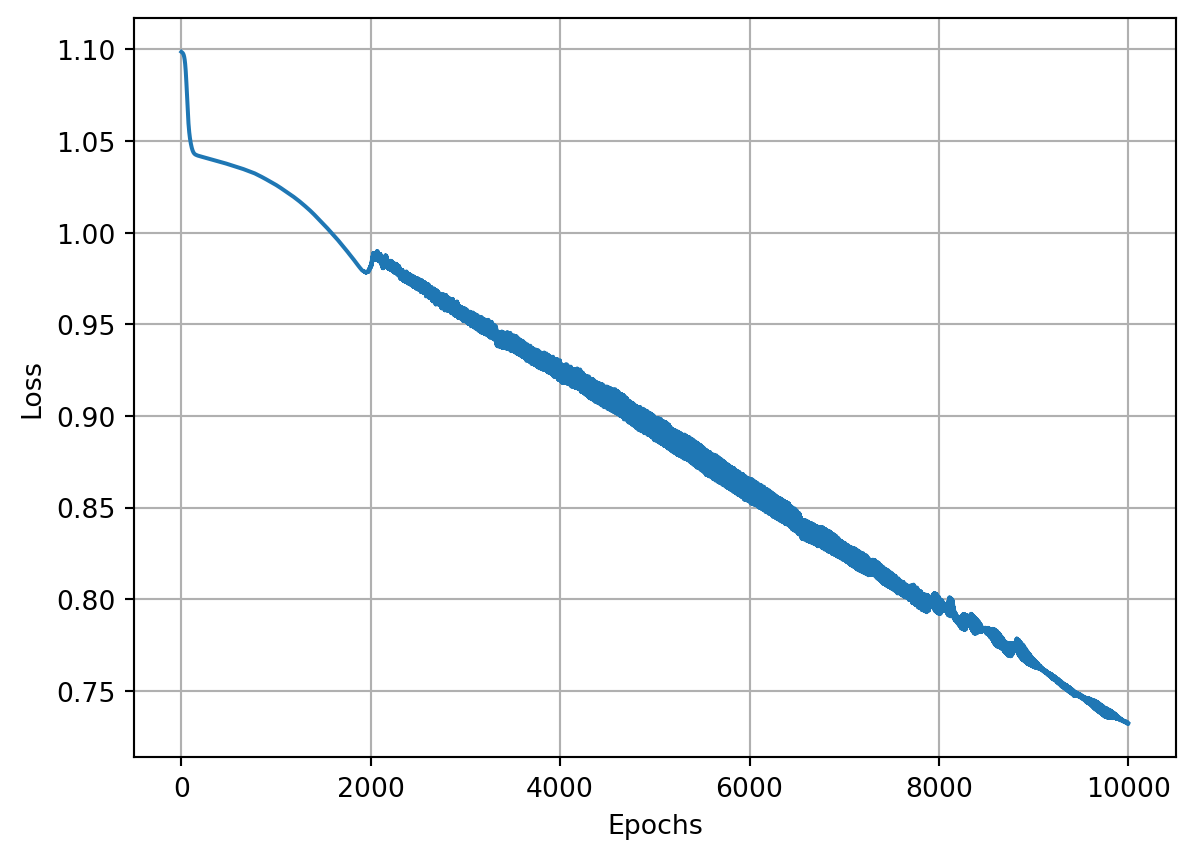
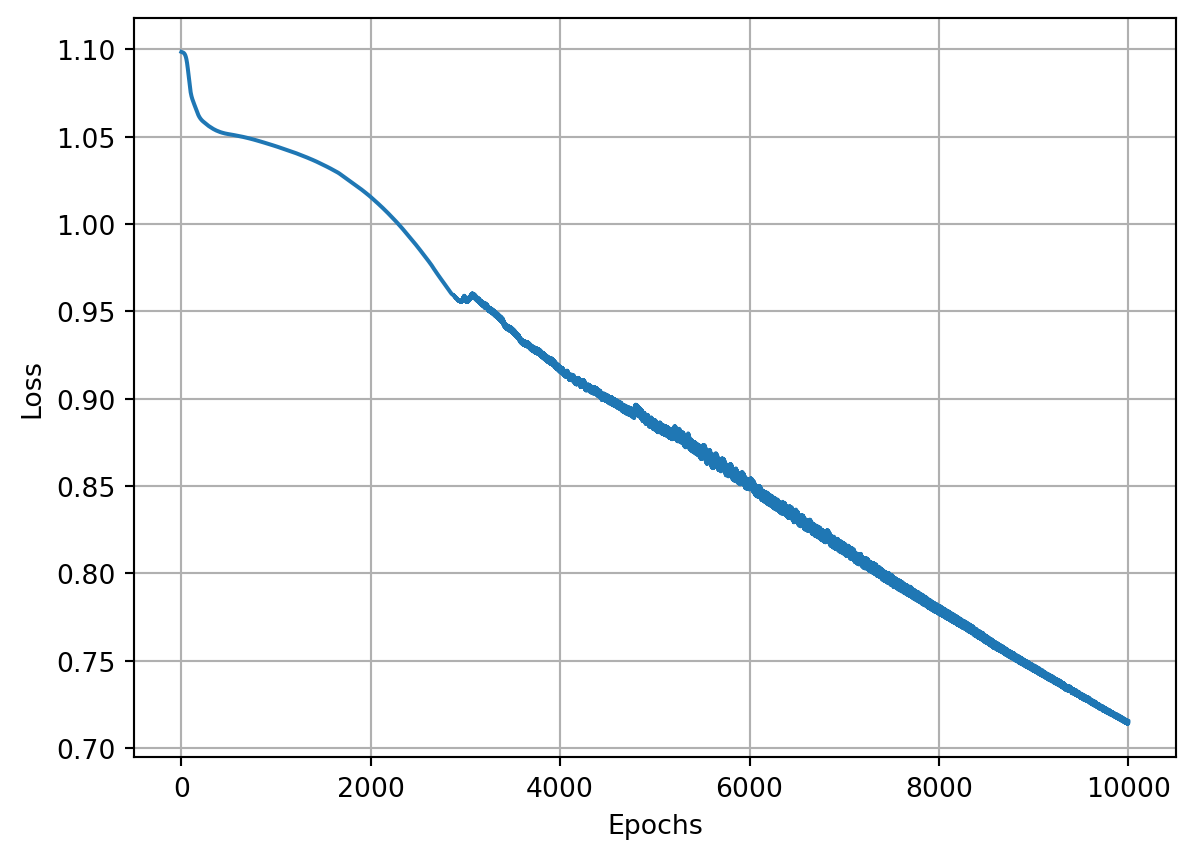
optimization

diff --git a/docs/posts/optimization_algorithms/index.html b/docs/posts/optimization_algorithms/index.html
@@ -194,7 +194,10 @@ pre > code.sourceCode > span > a:first-child::before { text-decoration: underlin
   <li><a href="#stochastic-gradient-descentsgd" id="toc-stochastic-gradient-descentsgd" class="nav-link" data-scroll-target="#stochastic-gradient-descentsgd">Stochastic Gradient Descent(SGD)</a></li>
   <li><a href="#sgdoptimizer-class" id="toc-sgdoptimizer-class" class="nav-link" data-scroll-target="#sgdoptimizer-class"><code>SGDOptimizer</code> class</a></li>
   <li><a href="#learning-rate-decay" id="toc-learning-rate-decay" class="nav-link" data-scroll-target="#learning-rate-decay">Learning Rate Decay</a></li>
-  <li><a href="#stochastic-gradient-descent-with-momentum" id="toc-stochastic-gradient-descent-with-momentum" class="nav-link" data-scroll-target="#stochastic-gradient-descent-with-momentum">Stochastic Gradient Descent with Momentum</a></li>
+  <li><a href="#stochastic-gradient-descent-with-momentum" id="toc-stochastic-gradient-descent-with-momentum" class="nav-link" data-scroll-target="#stochastic-gradient-descent-with-momentum">Stochastic Gradient Descent with Momentum</a>
+  <ul class="collapse">
+  <li><a href="#the-dynamics-of-momentum" id="toc-the-dynamics-of-momentum" class="nav-link" data-scroll-target="#the-dynamics-of-momentum">The dynamics of Momentum</a></li>
+  </ul></li>
   </ul>
 </nav>
     </div>
@@ -523,6 +526,22 @@ w^{(k)} - w^{*} = Qx^{(k)} &amp;= \sum_i q_i x_i^{(k)}\\
 <p><span class="math display">\[\begin{align*}
 \text{rate}(\alpha) = \max \{|1-\alpha \lambda_1|,|1-\alpha \lambda_n|\}
 \end{align*}\]</span></p>
+<p>The optimal learning rate is that which balances the convergence rate. Setting the convergence rate to be equal for the smallest and largest eigenvalues, we can solve for the optimal step size.</p>
+<p><span class="math display">\[\begin{align*}
+|1- \alpha \lambda_1| = |1- \alpha \lambda_n|
+\end{align*}\]</span></p>
+<p>Assuming <span class="math inline">\(\lambda_1 \neq \lambda_n\)</span>:</p>
+<p><span class="math display">\[\begin{align*}
+1 - \alpha \lambda_1 &amp;= -1 + \alpha \lambda_n\\
+\alpha (\lambda_1 + \lambda_n) &amp;= 2\\
+\alpha^* &amp;= \frac{2}{\lambda_1 + \lambda_n}
+\end{align*}\]</span></p>
+<p>So, the optimal convergence rate equals:</p>
+<p><span class="math display">\[\begin{align*}
+\max \{|1-\alpha \lambda_1|,|1-\alpha \lambda_n|\} &amp;= 1 - \frac{2\lambda_1}{\lambda_1 + \lambda_n} \\
+&amp;= \frac{\lambda_n - \lambda_1}{\lambda_n + \lambda_1}\\
+&amp;= \frac{\kappa - 1}{\kappa + 1}
+\end{align*}\]</span></p>
 <p>The ratio <span class="math inline">\(\kappa = \lambda_n / \lambda_1\)</span> determines the convergence rate of the problem. Recall that the level curves of the error surface are ellipsoids. Hence, a poorly conditioned Hessian results in stretching one of the axes of the ellipses, and taken to its extreme, the contours are almost parallel. Since gradient vectors are orthogonal to the level curves, the optimizer keeps pin-balling between parallel lines and takes forever to reach the center.</p>
 </section>
 </section>
@@ -621,7 +640,7 @@ w_{k+1} := w_k - \alpha_k \nabla \mathcal{L}(w_{k}) = w_k - \alpha_k \nabla L_i(
 <span id="cb11-25"><a href="#cb11-25" aria-hidden="true" tabindex="-1"></a>optimizer.update_params(dense1)</span>
 <span id="cb11-26"><a href="#cb11-26" aria-hidden="true" tabindex="-1"></a>optimizer.update_params(dense2)</span></code><button title="Copy to Clipboard" class="code-copy-button"><i class="bi"></i></button></pre></div>
 <div class="cell-output cell-output-stdout">
-<pre><code>Loss = 1.0986167044810788</code></pre>
+<pre><code>Loss = 1.0985869444388354</code></pre>
 </div>
 </div>
 <p>This is everything we need to train our model!</p>
@@ -679,16 +698,16 @@ w_{k+1} := w_k - \alpha_k \nabla \mathcal{L}(w_{k}) = w_k - \alpha_k \nabla L_i(
 <span id="cb13-49"><a href="#cb13-49" aria-hidden="true" tabindex="-1"></a>    optimizer.update_params(dense2)</span></code><button title="Copy to Clipboard" class="code-copy-button"><i class="bi"></i></button></pre></div>
 <div class="cell-output cell-output-stdout">
 <pre><code>Epoch: 0, Loss:  1.099
-Epoch: 1000, Loss:  1.033
-Epoch: 2000, Loss:  0.968
-Epoch: 3000, Loss:  0.893
-Epoch: 4000, Loss:  0.801
-Epoch: 5000, Loss:  0.712
-Epoch: 6000, Loss:  0.679
-Epoch: 7000, Loss:  0.676
-Epoch: 8000, Loss:  0.628
-Epoch: 9000, Loss:  0.710
-Epoch: 10000, Loss:  0.694</code></pre>
+Epoch: 1000, Loss:  1.042
+Epoch: 2000, Loss:  0.935
+Epoch: 3000, Loss:  0.777
+Epoch: 4000, Loss:  0.639
+Epoch: 5000, Loss:  0.610
+Epoch: 6000, Loss:  0.600
+Epoch: 7000, Loss:  0.568
+Epoch: 8000, Loss:  0.562
+Epoch: 9000, Loss:  0.426
+Epoch: 10000, Loss:  0.396</code></pre>
 </div>
 </div>
 <p>Our neural network mostly stays stuck at around a loss of <span class="math inline">\(1.0\)</span> and later around <span class="math inline">\(0.85\)</span>-<span class="math inline">\(0.90\)</span> Given that this loss didn’t decrease much, we can assume that this learning rate being too high, also caused the model to get stuck in a <strong>local minimum</strong>, which we’ll learn more about soon. Iterating over more epochs, doesn’t seem helpful at this point, which tells us that we’re likely stuck with our optimization. Does this mean that this is the most we can get from our optimizer on this dataset?</p>
@@ -844,17 +863,17 @@ Epoch: 10000, Loss:  0.694</code></pre>
 <div class="cell" data-execution_count="16">
 <div class="sourceCode cell-code" id="cb20"><pre class="sourceCode python code-with-copy"><code class="sourceCode python"><span id="cb20-1"><a href="#cb20-1" aria-hidden="true" tabindex="-1"></a>acc_vals, loss_vals, lr_vals <span class="op">=</span> train(decay<span class="op">=</span><span class="fl">0.01</span>)</span></code><button title="Copy to Clipboard" class="code-copy-button"><i class="bi"></i></button></pre></div>
 <div class="cell-output cell-output-stdout">
-<pre><code>epoch: 0,                 acc : 0.293,                 loss:  1.099,                 lr : 1.0
-epoch: 1000,                 acc : 0.403,                 loss:  1.056,                 lr : 0.09099181073703366
-epoch: 2000,                 acc : 0.410,                 loss:  1.054,                 lr : 0.047641734159123386
-epoch: 3000,                 acc : 0.417,                 loss:  1.053,                 lr : 0.03226847370119393
-epoch: 4000,                 acc : 0.427,                 loss:  1.052,                 lr : 0.02439619419370578
-epoch: 5000,                 acc : 0.430,                 loss:  1.051,                 lr : 0.019611688566385566
-epoch: 6000,                 acc : 0.433,                 loss:  1.051,                 lr : 0.016396130513198885
-epoch: 7000,                 acc : 0.443,                 loss:  1.050,                 lr : 0.014086491055078181
-epoch: 8000,                 acc : 0.443,                 loss:  1.049,                 lr : 0.012347203358439314
-epoch: 9000,                 acc : 0.443,                 loss:  1.049,                 lr : 0.010990218705352238
-epoch: 10000,                 acc : 0.447,                 loss:  1.049,                 lr : 0.009901970492127933</code></pre>
+<pre><code>epoch: 0,                 acc : 0.380,                 loss:  1.099,                 lr : 1.0
+epoch: 1000,                 acc : 0.457,                 loss:  1.061,                 lr : 0.09099181073703366
+epoch: 2000,                 acc : 0.457,                 loss:  1.059,                 lr : 0.047641734159123386
+epoch: 3000,                 acc : 0.450,                 loss:  1.058,                 lr : 0.03226847370119393
+epoch: 4000,                 acc : 0.443,                 loss:  1.057,                 lr : 0.02439619419370578
+epoch: 5000,                 acc : 0.443,                 loss:  1.056,                 lr : 0.019611688566385566
+epoch: 6000,                 acc : 0.437,                 loss:  1.056,                 lr : 0.016396130513198885
+epoch: 7000,                 acc : 0.433,                 loss:  1.055,                 lr : 0.014086491055078181
+epoch: 8000,                 acc : 0.433,                 loss:  1.055,                 lr : 0.012347203358439314
+epoch: 9000,                 acc : 0.433,                 loss:  1.054,                 lr : 0.010990218705352238
+epoch: 10000,                 acc : 0.437,                 loss:  1.054,                 lr : 0.009901970492127933</code></pre>
 </div>
 </div>
 <div class="cell" data-execution_count="17">
@@ -901,17 +920,17 @@ epoch: 10000,                 acc : 0.447,                 loss:  1.049,        
 <div class="cell" data-execution_count="20">
 <div class="sourceCode cell-code" id="cb25"><pre class="sourceCode python code-with-copy"><code class="sourceCode python"><span id="cb25-1"><a href="#cb25-1" aria-hidden="true" tabindex="-1"></a>acc_vals, loss_vals, lr_vals <span class="op">=</span> train(decay<span class="op">=</span><span class="fl">1e-3</span>)</span></code><button title="Copy to Clipboard" class="code-copy-button"><i class="bi"></i></button></pre></div>
 <div class="cell-output cell-output-stdout">
-<pre><code>epoch: 0,                 acc : 0.367,                 loss:  1.099,                 lr : 1.0
-epoch: 1000,                 acc : 0.470,                 loss:  1.026,                 lr : 0.5002501250625312
-epoch: 2000,                 acc : 0.540,                 loss:  0.982,                 lr : 0.33344448149383127
-epoch: 3000,                 acc : 0.557,                 loss:  0.958,                 lr : 0.25006251562890724
-epoch: 4000,                 acc : 0.537,                 loss:  0.929,                 lr : 0.2000400080016003
-epoch: 5000,                 acc : 0.553,                 loss:  0.899,                 lr : 0.16669444907484582
-epoch: 6000,                 acc : 0.597,                 loss:  0.866,                 lr : 0.1428775539362766
-epoch: 7000,                 acc : 0.637,                 loss:  0.830,                 lr : 0.12501562695336915
-epoch: 8000,                 acc : 0.620,                 loss:  0.793,                 lr : 0.11112345816201799
-epoch: 9000,                 acc : 0.643,                 loss:  0.764,                 lr : 0.1000100010001
-epoch: 10000,                 acc : 0.687,                 loss:  0.732,                 lr : 0.09091735612328393</code></pre>
+<pre><code>epoch: 0,                 acc : 0.417,                 loss:  1.099,                 lr : 1.0
+epoch: 1000,                 acc : 0.427,                 loss:  1.045,                 lr : 0.5002501250625312
+epoch: 2000,                 acc : 0.477,                 loss:  1.015,                 lr : 0.33344448149383127
+epoch: 3000,                 acc : 0.547,                 loss:  0.957,                 lr : 0.25006251562890724
+epoch: 4000,                 acc : 0.550,                 loss:  0.918,                 lr : 0.2000400080016003
+epoch: 5000,                 acc : 0.537,                 loss:  0.888,                 lr : 0.16669444907484582
+epoch: 6000,                 acc : 0.560,                 loss:  0.853,                 lr : 0.1428775539362766
+epoch: 7000,                 acc : 0.577,                 loss:  0.817,                 lr : 0.12501562695336915
+epoch: 8000,                 acc : 0.627,                 loss:  0.781,                 lr : 0.11112345816201799
+epoch: 9000,                 acc : 0.643,                 loss:  0.747,                 lr : 0.1000100010001
+epoch: 10000,                 acc : 0.687,                 loss:  0.715,                 lr : 0.09091735612328393</code></pre>
 </div>
 </div>
 <div class="cell" data-execution_count="21">
@@ -925,7 +944,7 @@ epoch: 10000,                 acc : 0.687,                 loss:  0.732,        
 <span id="cb27-6"><a href="#cb27-6" aria-hidden="true" tabindex="-1"></a>plt.show()</span></code><button title="Copy to Clipboard" class="code-copy-button"><i class="bi"></i></button></pre></div>
 </details>
 <div class="cell-output cell-output-display">
-<p><img src="index_files/figure-html/cell-22-output-1.png" width="597" height="429"></p>
+<p><img src="index_files/figure-html/cell-22-output-1.png" width="597" height="432"></p>
 </div>
 </div>
 <div class="cell" data-execution_count="22">
@@ -957,14 +976,86 @@ epoch: 10000,                 acc : 0.687,                 loss:  0.732,        
 </section>
 <section id="stochastic-gradient-descent-with-momentum" class="level2">
 <h2 class="anchored" data-anchor-id="stochastic-gradient-descent-with-momentum">Stochastic Gradient Descent with Momentum</h2>
-<p>Momentum proposes a small tweak to gradient descent. We give gradient descent a short-term memory:</p>
+<p>Momentum proposes a small tweak to gradient descent. We give gradient descent a short-term memory. Let’s define the updated velocity <span class="math inline">\(z^{k+1}\)</span> to be weighted and controlled by the mass <span class="math inline">\(\beta\)</span>. When <span class="math inline">\(\beta\)</span> is high, we simply use the velocity from the last time, that is, we are entirely driven by momentum. When <span class="math inline">\(\beta=0\)</span>, the momentum is zero.</p>
 <p><span class="math display">\[\begin{align*}
-w^{(k+1)} &amp;= w^{(k)} - \alpha z^{(k+1)}\\
-z^{(k+1)} &amp;= \beta z^{(k)} + \nabla f(w^{(k)})
+z^{(k+1)} &amp;= \beta z^{(k)} + \nabla f(w^{(k)})\\
+w^{k+1} &amp;= w^k - \alpha z^{k+1}
 \end{align*}\]</span></p>
-<p>The change is innocent and costs almost nothing. When <span class="math inline">\(\beta=0\)</span></p>
+<section id="the-dynamics-of-momentum" class="level3">
+<h3 class="anchored" data-anchor-id="the-dynamics-of-momentum">The dynamics of Momentum</h3>
+<p>Since <span class="math inline">\(\nabla f(w^k) = Aw^k - b\)</span>, the update on the quadratic is:</p>
+<p><span class="math display">\[\begin{align*}
+z^{k+1} &amp;= \beta z^k + (Aw^k - b)\\
+w^{k+1} &amp;= w^k - \alpha z^{k+1}
+\end{align*}\]</span></p>
+<p>We go through the same motions as before with the change of basis <span class="math inline">\((w^k - w^{*})=Qx^k\)</span> and <span class="math inline">\(z^k = Q y^k\)</span> to yield the update rule:</p>
+<p><span class="math display">\[\begin{align*}
+Q y^{k+1} &amp;= \beta Q y^k + (AQx^k + Aw^* - b)\\
+Q y^{k+1} &amp;= \beta Q y^k + (AQx^k + AA^{-1}b - b)\\
+Q y^{k+1} &amp;= \beta Q y^k + Q\Lambda Q^T Q x^k\\
+Q y^{k+1} &amp;= \beta Q y^k + Q\Lambda x^k\\
+y^{k+1} &amp;= \beta y^k + \Lambda x^k
+\end{align*}\]</span></p>
+<p>or equivalently:</p>
+<p><span class="math display">\[\begin{align*}
+y_i^{k+1} &amp;= \beta y_i^k + \lambda_i x_i^k
+\end{align*}\]</span></p>
+<p>Moreover,</p>
+<p><span class="math display">\[\begin{align*}
+Qx^{k+1} + w^* &amp;= Qx^k + w^* - \alpha Qy^{k+1}\\
+x^{k+1} &amp;= x^k - \alpha y^{k+1}
+\end{align*}\]</span></p>
+<p>or equivalently:</p>
+<p><span class="math display">\[\begin{align*}
+x_i^{k+1} &amp;= x_i^k - \alpha y_i^{k+1}
+\end{align*}\]</span></p>
+<p>This lets us rewrite our iterates as:</p>
+<p><span class="math display">\[\begin{align*}
+\begin{bmatrix}
+y_i^{k+1}\\
+x_i^{k+1}
+\end{bmatrix} &amp;=
+\begin{bmatrix}
+\beta y_i^k + \lambda_i x_i^k\\
+(1-\alpha\lambda_i)x_i^k - \alpha \beta y_i^k
+\end{bmatrix}\\
+&amp;=\begin{bmatrix}
+\beta &amp; \lambda_i\\
+- \alpha \beta &amp; (1-\alpha\lambda_i)
+\end{bmatrix}
+\begin{bmatrix}
+y_i^k\\
+x_i^k
+\end{bmatrix}
+\end{align*}\]</span></p>
+<p>Consequently,</p>
+<p><span class="math display">\[\begin{align*}
+\begin{bmatrix}
+y_i^k\\
+x_i^k
+\end{bmatrix} = R^k \begin{bmatrix}
+y_i^0\\
+x_i^0
+\end{bmatrix},\quad
+R = \begin{bmatrix}
+\beta &amp; \lambda_i\\
+- \alpha \beta &amp; (1-\alpha\lambda_i)
+\end{bmatrix}
+\end{align*}\]</span></p>
+<p>In the case of <span class="math inline">\(2 \times 2\)</span> matrix, there is an elegant little known formula in terms of the eigenvalues of the matrix <span class="math inline">\(R\)</span>, <span class="math inline">\(\sigma_1\)</span> and <span class="math inline">\(\sigma_2\)</span>:</p>
+<p><span class="math display">\[\begin{align*}
+R^k = \begin{cases}
+\sigma_1^k R_1 - \sigma_2^k R_2 &amp; \sigma_1 \neq \sigma_2,\\
+\sigma_1^k(kR\sigma_1-(k-1)I) &amp; \sigma_1 = \sigma_2
+\end{cases}
+\quad
+R_j = \frac{R-\sigma_j I}{\sigma_1 - \sigma_2}
+\end{align*}\]</span></p>
+<p>The formula is rather complicated, but the takeway here is that it plays the exact same role the individual convergence rates <span class="math inline">\((1-\alpha \lambda_i)\)</span> do in gradient descent. The convergence rate is therefore the slowest of the two rates, <span class="math inline">\(\max \{|\sigma_1|,|\sigma_2|\}\)</span>.</p>
+<p>For what values of <span class="math inline">\(\alpha\)</span> and <span class="math inline">\(\beta\)</span> does momentum converge? Since we need both <span class="math inline">\(\sigma_1\)</span> and <span class="math inline">\(\sigma_2\)</span> to converge, our convergence criterion is now <span class="math inline">\(\max \{|\sigma_1|,|\sigma_2|\} &lt; 1\)</span>.</p>
 
 
+</section>
 </section>
 
 </main> <!-- /main -->

diff --git a/docs/index.html b/docs/index.html
@@ -155,7 +155,7 @@ ul.task-list li input[type="checkbox"] {
 
 <div class="quarto-listing quarto-listing-container-grid" id="listing-listing">
 <div class="list grid quarto-listing-cols-3">
-<div class="g-col-1" data-index="0" data-categories="Linear Algebra" data-listing-date-sort="1718834400000" data-listing-file-modified-sort="1718896051525" data-listing-date-modified-sort="NaN" data-listing-reading-time-sort="10">
+<div class="g-col-1" data-index="0" data-categories="Linear Algebra" data-listing-date-sort="1718834400000" data-listing-file-modified-sort="1718954067765" data-listing-date-modified-sort="NaN" data-listing-reading-time-sort="10">
 <a href="./posts/positive_definiteness/index.html" class="quarto-grid-link">
 <div class="quarto-grid-item card h-100 card-left">
 <p class="card-img-top">
@@ -185,7 +185,7 @@ Jun 20, 2024
 </div>
 </a>
 </div>
-<div class="g-col-1" data-index="1" data-categories="Machine Learning" data-listing-date-sort="1717970400000" data-listing-file-modified-sort="1718953659452" data-listing-date-modified-sort="NaN" data-listing-reading-time-sort="22">
+<div class="g-col-1" data-index="1" data-categories="Machine Learning" data-listing-date-sort="1717970400000" data-listing-file-modified-sort="1719040544189" data-listing-date-modified-sort="NaN" data-listing-reading-time-sort="24">
 <a href="./posts/optimization_algorithms/index.html" class="quarto-grid-link">
 <div class="quarto-grid-item card h-100 card-left">
 <p class="card-img-top">
